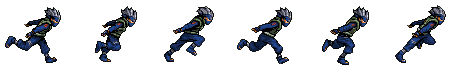
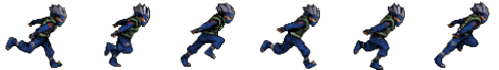
Added Dash on Left Ctrl. Adjusted Jump/Run Sprites

diff --git a/Game Engine/Components/Controller.cpp b/Game Engine/Components/Controller.cpp
@@ -53,6 +53,7 @@ Controller::Controller() : Component(TYPE_PLAYER_CONTROLLER) {
 
 	mDashTimer = mDashCooldown = 2000;
 
+
 	mSwingTime = 800;
 	mSwingDelay = 400;
 	mSwingTimer = mSwingTime + mSwingDelay;
@@ -81,7 +82,7 @@ void Controller::Update() {
 	}
 
 	mDashTimer += gpFRC->GetFrameTime();
-	if (gpInputManager->IsKeyTriggered(SDL_SCANCODE_SPACE) && mDashTimer >= mDashCooldown) {
+	if (gpInputManager->IsKeyTriggered(SDL_SCANCODE_SPACE)) {
 		/*
 		mDashTimer = 0;
 
@@ -94,6 +95,23 @@ void Controller::Update() {
 		}
 		*/
 		pT->mVelVert = -600; // jumping
+	}
+
+	if ((gpInputManager->IsKeyPressed(SDL_SCANCODE_A) || gpInputManager->IsKeyPressed(SDL_SCANCODE_D)) && gpInputManager->IsKeyTriggered(SDL_SCANCODE_LCTRL) && mDashTimer >= mDashCooldown)
+	{
+
+		mDashTimer = 0;
+		//if already triggered within the Limit
+		if (h_mod == 0 && v_mod == 0) {
+			pT->mVelHoriz += 1000;
+		}
+		else {
+			pT->mVelHoriz += 1000 * h_mod;
+			pT->mVelVert += 1000 * v_mod;
+		}
+		
+
+		
 	}
 
 	float dTime = gpFRC->GetDeltaTime();
@@ -195,6 +213,7 @@ void Controller::Update() {
 		}
 	}
 	*/
+	
 
 	// TODO: Strip out code from when game was top-down
 	// float sqVel = (pT->mVelHoriz * pT->mVelHoriz + pT->mVelVert * pT->mVelVert) / (mMaxSpeed * mMaxSpeed);
@@ -210,7 +229,7 @@ void Controller::Update() {
 			pT->mVelHoriz /= sqVel;
 		}
 		else {
-			pT->mVelHoriz -= mAcceleration * mExcessSlowMod * dTime;
+			pT->mVelHoriz -= mAcceleration * cosf(ang) * mExcessSlowMod * dTime;
 			/*
 			pT->mVelHoriz -= mAcceleration * cosf(ang) * mExcessSlowMod * dTime;
 			pT->mVelVert -= mAcceleration * sinf(ang) * mExcessSlowMod * dTime;
